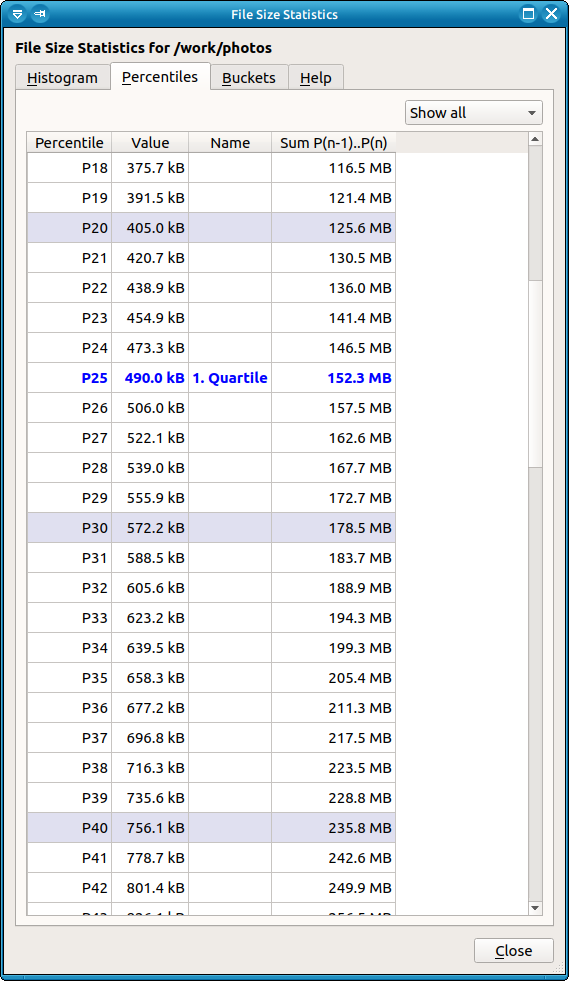
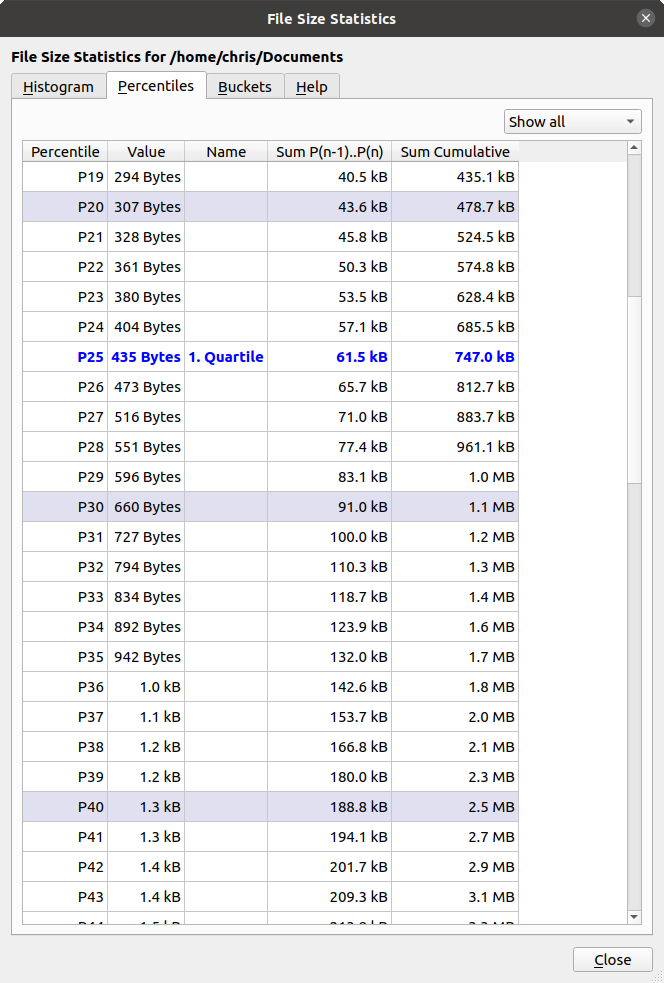
Add cumulative sum column to File Size Statistics Percentiles tab
Introduces a fifth column to the File Size Statistics table under the
Percentiles tab that provides a running total size at each percentile,
such that the value shown includes the accumulated sum between a given
percentile and all previous ones going back to P0.

The addition allows one to easily see at a glance how much total space
is consumed in the selected directory by files at or below a certain
size. This information is frequently useful when trying to optimize some
filesystem configurations, such as with ZFS.

diff --git a/src/FileSizeStatsWindow.cpp b/src/FileSizeStatsWindow.cpp
@@ -14,7 +14,6 @@
 #include <QProcess>
 
 #include "FileSizeStatsWindow.h"
-#include "FileSizeStats.h"
 #include "HistogramView.h"
 #include "BucketsTableModel.h"
 #include "DirTree.h"
@@ -205,23 +204,24 @@ QStringList FileSizeStatsWindow::quantile( int order, const QString & name )
 }
 
 
-void FileSizeStatsWindow::fillQuantileTable( QTableWidget *    table,
-					     int	       order,
-					     const QString &   namePrefix,
-					     const QRealList & sums,
-					     int	       step,
-					     int	       extremesMargin )
+void FileSizeStatsWindow::fillQuantileTable( QTableWidget *         table,
+					     int	            order,
+					     const QString &        namePrefix,
+					     const PercentileSums & sums,
+					     int	            step,
+					     int	            extremesMargin )
 {
     enum TableColumns
     {
 	NumberCol,
 	ValueCol,
 	NameCol,
-	SumCol
+	SumCol,
+	CumSumCol
     };
 
     table->clear();
-    table->setColumnCount( sums.isEmpty() ? 3 : 4 );
+    table->setColumnCount( sums.isEmpty() ? 3 : 5 );
     table->setRowCount( order + 1 );
 
     QStringList header;
@@ -237,7 +237,10 @@ void FileSizeStatsWindow::fillQuantileTable( QTableWidget *    table,
     header << tr( "Value" ) << tr( "Name" );
 
     if ( ! sums.isEmpty() )
-	header << tr( "Sum %1(n-1)..%2(n)" ).arg( namePrefix ).arg( namePrefix );
+    {
+        header << tr( "Sum %1(n-1)..%2(n)" ).arg( namePrefix ).arg( namePrefix );
+        header << tr( "Sum Cumulative");
+    }
 
     for ( int col = 0; col < header.size(); ++col )
     {
@@ -269,8 +272,11 @@ void FileSizeStatsWindow::fillQuantileTable( QTableWidget *    table,
 	addItem( table, row, NumberCol, namePrefix + QString::number( i ) );
 	addItem( table, row, ValueCol, formatSize( _stats->quantile( order, i ) ) );
 
-	if ( i > 0 && i < sums.size() )
-	    addItem( table, row, SumCol, formatSize( sums.at( i ) ) );
+    if ( i > 0 && i < sums.size() )
+    {
+        addItem( table, row, SumCol, formatSize( sums.individual().at( i ) ) );
+        addItem( table, row, CumSumCol, formatSize( sums.cumulative().at( i ) ) );
+    }
 
 	if ( i == 0 || i == median || i == order || i == quartile_1 || i == quartile_3 )
 	{
@@ -301,6 +307,7 @@ void FileSizeStatsWindow::fillQuantileTable( QTableWidget *    table,
     setColAlignment( table, ValueCol,  Qt::AlignRight  | Qt::AlignVCenter );
     setColAlignment( table, NameCol,   Qt::AlignCenter | Qt::AlignVCenter );
     setColAlignment( table, SumCol,    Qt::AlignRight  | Qt::AlignVCenter );
+    setColAlignment( table, CumSumCol,    Qt::AlignRight  | Qt::AlignVCenter );
 
     HeaderTweaker::resizeToContents( table->horizontalHeader() );
 }
@@ -379,7 +386,7 @@ void FileSizeStatsWindow::fillHistogram()
 
     histogram->clear();
     histogram->setPercentiles( _stats->percentileList() );
-    histogram->setPercentileSums( _stats->percentileSums() );
+    histogram->setPercentileSums( _stats->percentileSums().individual() );
     histogram->autoStartEndPercentiles();
     updateOptions();
     fillBuckets();

diff --git a/src/PercentileStats.h b/src/PercentileStats.h
@@ -18,6 +18,8 @@ typedef QList<qreal> QRealList;
 
 namespace QDirStat
 {
+    class PercentileSums;
+
     /**
      * Base class for percentile-related statistics calculation.
      *
@@ -33,7 +35,6 @@ namespace QDirStat
     class PercentileStats
     {
     public:
-
 	/**
 	 * Constructor.
 	 **/
@@ -124,16 +125,55 @@ namespace QDirStat
         QRealList percentileList();
 
         /**
-         * Return a list (0..100) of all accumulated sizes between one
-         * percentile and the previous one.
+         * Returns both forms of percentile sums.
          **/
-        QRealList percentileSums();
+        PercentileSums percentileSums();
 
 
     protected:
 
 	QRealList _data;
-	bool	  _sorted;
+	bool	  _sorted;   
+    };
+
+    /**
+     * Container for individual and cumulative percentile sums.
+     **/
+    class PercentileSums
+    {
+    public:
+        /**
+         * Constructor.
+         **/
+        PercentileSums() {}
+
+        /**
+         * Returns the size of the sums.
+         **/
+        int size() const { return _ind.size(); }
+
+        /**
+         * Returns true if the sums are empty; otherwise, returns false.
+         **/
+        bool isEmpty() const { return _ind.isEmpty(); }
+
+        /**
+         * Return a lists (0..100) of all accumulated sizes between one percentile
+         * and the previous one
+         **/
+        const QRealList& individual() const { return _ind; }
+
+        /**
+         * Return a lists (0..100) of all accumulated sizes between one percentile
+         * and the first.
+         **/
+        const QRealList& cumulative() const { return _cum; }
+
+    private:
+        QRealList _ind;
+        QRealList _cum;
+
+        friend PercentileSums PercentileStats::percentileSums();
     };
 
 }	// namespace QDirStat

diff --git a/src/FileSizeStatsWindow.h b/src/FileSizeStatsWindow.h
@@ -15,6 +15,7 @@
 
 #include "ui_file-size-stats-window.h"
 #include "FileInfo.h"
+#include "FileSizeStats.h"
 
 class QTableWidget;
 
@@ -166,12 +167,12 @@ namespace QDirStat
          * 'step' is the step width; 'extremesMargin' specifies how far from
          * the extremes (min, max) the step width should be 1 instead.
          **/
-        void fillQuantileTable( QTableWidget *    table,
-                                int               order,
-                                const QString &   namePrefix = "",
-                                const QRealList & sums = QRealList(),
-                                int               step = 1,
-                                int               extremesMargin = 1 );
+        void fillQuantileTable( QTableWidget *         table,
+                                int                    order,
+                                const QString &        namePrefix = "",
+                                const PercentileSums & sums = PercentileSums(),
+                                int                    step = 1,
+                                int                    extremesMargin = 1 );
 
         /**
          * Add an item to a table.

diff --git a/src/PercentileStats.cpp b/src/PercentileStats.cpp
@@ -184,13 +184,14 @@ QRealList PercentileStats::percentileList()
 }
 
 
-QRealList PercentileStats::percentileSums()
+PercentileSums PercentileStats::percentileSums()
 {
-    QRealList sums;
-    sums.reserve( 100 );
+    PercentileSums sums;
+    sums._ind.reserve( 100 );
+    sums._cum.reserve( 100 );
 
     for ( int i=0; i <= 100; ++i )
-        sums << 0.0;
+        sums._ind << 0.0;
 
     if ( ! _sorted )
         sort();
@@ -201,12 +202,19 @@ QRealList PercentileStats::percentileSums()
     {
         int percentile = qMax( 1, (int) ceil( i / percentileSize ) );
 
-        sums[ percentile ] += _data.at(i);
+        sums._ind[ percentile ] += _data.at(i);
     }
+
+    qreal runningTotal = 0;
+    for( int i=0; i < sums._ind.size(); i++)
+        sums._cum += (runningTotal += sums._ind.at(i));
 
 #if 0
     for ( int i=0; i < sums.size(); ++i )
-        logDebug() << "sum[ " << i << " ] : " << formatSize( sums[i] ) << endl;
+    {
+        logDebug() << "sum[ " << i << " ] : " << formatSize( sums._ind[i] ) << endl;
+        logDebug() << "cum_sum[ " << i << " ] : " << formatSize( sums._cum[i] ) << endl;
+    }
 #endif
 
     return sums;

diff --git a/doc/stats/Percentiles-Table.md b/doc/stats/Percentiles-Table.md
@@ -32,6 +32,9 @@ Columns from left to right:
 
 - The accumulated sum of all data points (of all files) between the
   previous percentile and this one.
+  
+- The accumulated sum of all data points (of all files) between
+  P0 and this one. 
 
 
 If you wonder how many data points (files) fall into any interval between the
